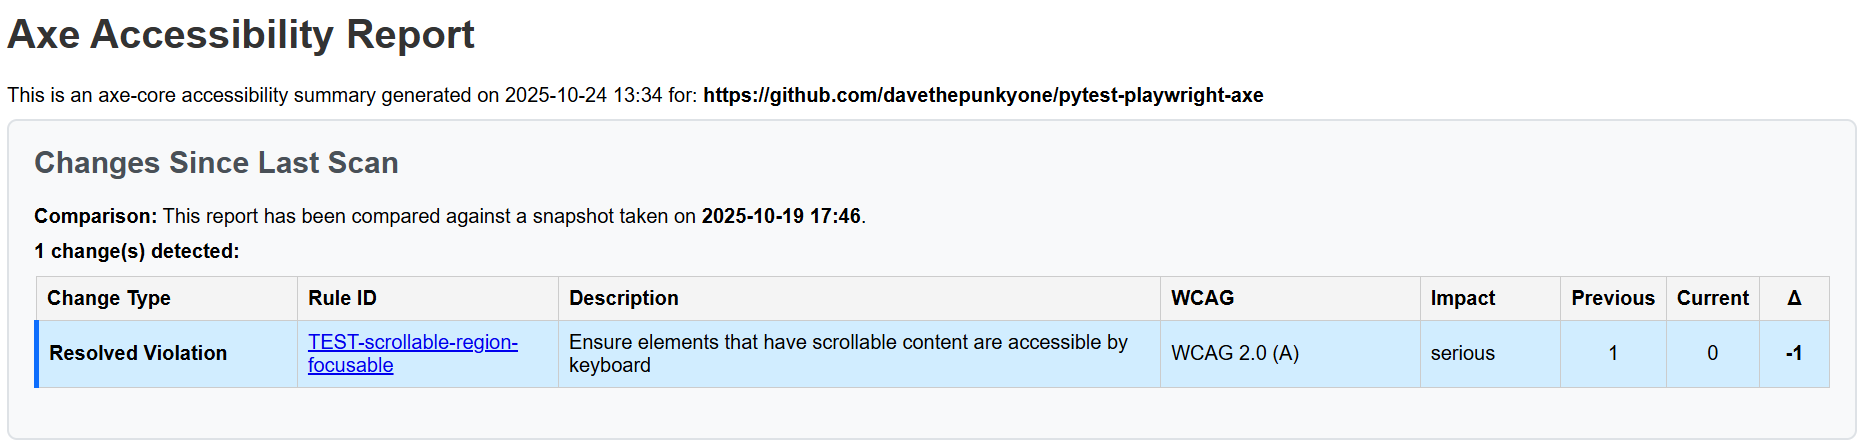
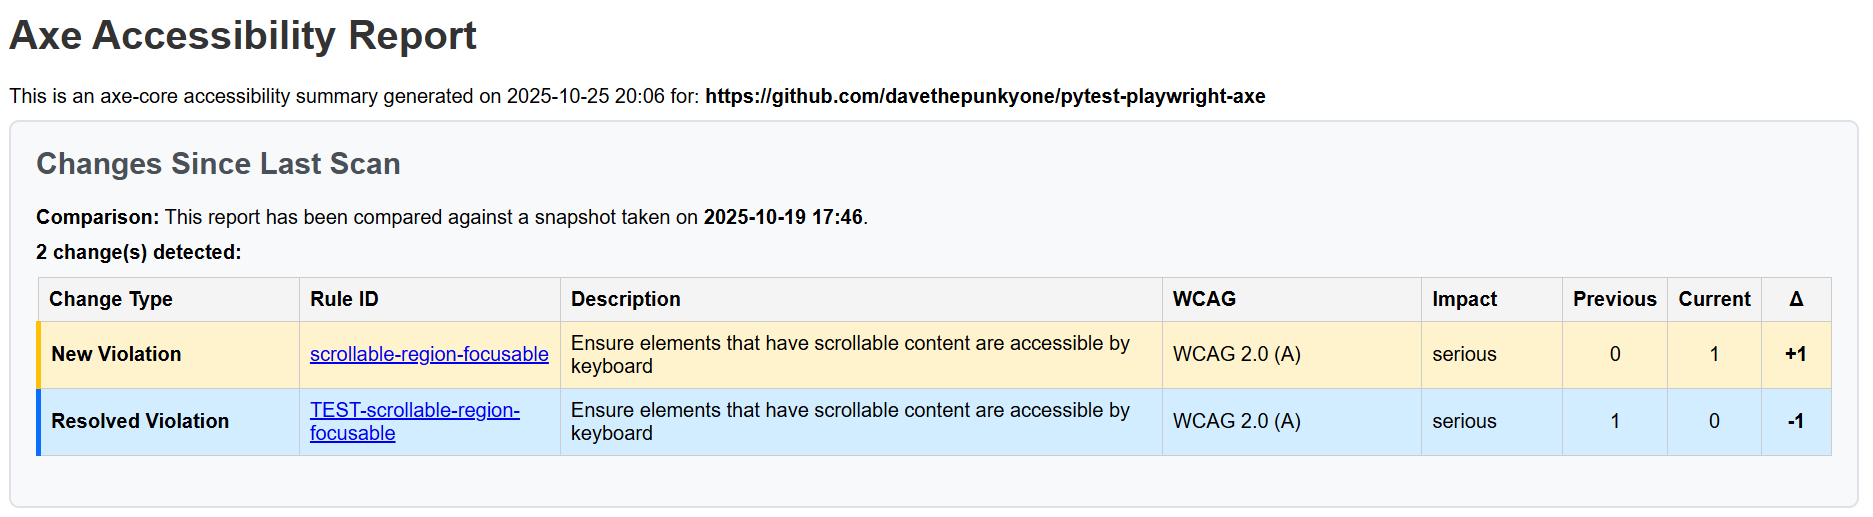
Support for new versioning to allow for release of snapshot logic

Changed region(s): [[0.0, 0.4688, 0.9941, 0.9062], [0.0, 0.1562, 0.9941, 0.4375], [0.0, 0.0312, 0.2796, 0.125]]

diff --git a/scripts/check_axe_core_version.py b/scripts/check_axe_core_version.py
@@ -27,7 +27,7 @@ def axe_core_update_required() -> bool:
     toml_version = toml_data["project"]["version"]
 
     current_version = str(
-        f"v{toml_version}" if "-" not in toml_version else f"v{toml_version.split('-')[0]}")
+        f"v{toml_version}" if ".post" not in toml_version else f"v{toml_version.split('.post')[0]}")
     logging.info(f"Current axe-core version: {current_version}")
 
     result = current_version != latest_version
@@ -37,7 +37,7 @@ def axe_core_update_required() -> bool:
         with open(os.environ['GITHUB_OUTPUT'], 'a') as gho:
             gho.write(f"update_required={current_version != latest_version}\n")
             gho.write(f"axe_core_version={latest_version.replace('v', '')}\n")
-            gho.write(f"package_version={current_version.replace('v', '')}")
+            gho.write(f"package_version={toml_version}\n")
 
     return result
 

diff --git a/src/pytest_playwright_axe/__init__.py b/src/pytest_playwright_axe/__init__.py
@@ -1,3 +1,3 @@
 from .axe import Axe, AxeAccessibilityException, OPTIONS_WCAG_22AA
 __all__ = ["Axe", "AxeAccessibilityException", "OPTIONS_WCAG_22AA"]
-__version__ = "4.11.0"
+__version__ = "4.11.0.post1"

diff --git a/README.md b/README.md
@@ -300,7 +300,7 @@ If any changes are detected and snapshot scanning is enabled, a new section will
 be populated at the start of the HTML report that outlines the detected changes, as
 shown in the screenshot below.
 
-![An image of the Changes Since Last Scan section, displayed as the first section of the HTML report and showing a resolved violation](https://raw.githubusercontent.com/davethepunkyone/pytest-playwright-axe/main/examples/changes_since_last_scan_example.png)
+![An image of the Changes Since Last Scan section, displayed as the first section of the HTML report and showing a new and a resolved violation](https://raw.githubusercontent.com/davethepunkyone/pytest-playwright-axe/main/examples/changes_since_last_scan_example.png)
 
 When working with snapshots, the following needs to be considered:
 
